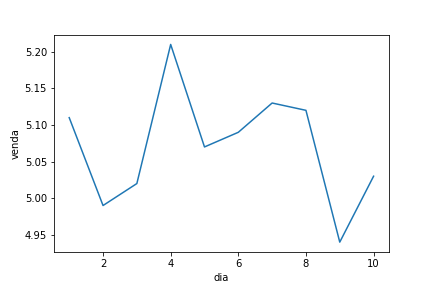
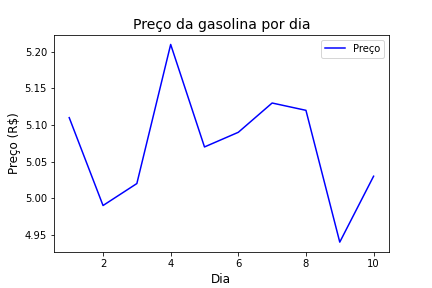
Alteração no gráfico (acrescento de elementos... legenda, cor, nome de eixo, titulo, etc.)

diff --git a/gasolina.py b/gasolina.py
@@ -1,4 +1,26 @@
+# código de geração do gráfico
+
+import pandas as pd
+import seaborn as sns
+import matplotlib.pyplot as plt
+
 df = pd.read_csv('gasolina.csv')
 
-line_plot = sns.lineplot(x=df['dia'], y=df['venda']).get_figure()
-line_plot.savefig('gasolina.png')
+dia = df['dia']
+preco = df['venda']
+
+sns.lineplot(x=dia, y=preco, color = 'b', label = 'Preço')
+
+# Configurando título e rótulos dos eixos.
+plt.title('Preço da gasolina por dia', fontsize=14)
+plt.xlabel('Dia', fontsize=12)
+plt.ylabel('Preço (R$)', fontsize=12)
+
+# Mudando a grossura dos eixos.
+plt.tick_params(axis='both', labelsize=10)
+
+# Legenda no gráfico
+plt.legend()
+
+plt.savefig('gasolina.png')
+plt.show() # Para 'desenhar' o gráfico
